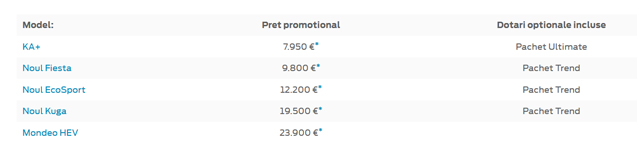
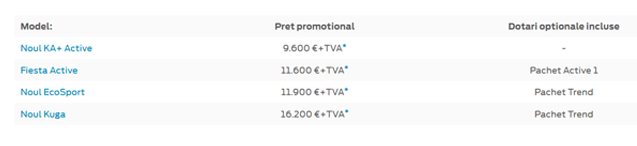
update

diff --git a/application/views/home.php b/application/views/home.php
@@ -4,7 +4,57 @@
 <div id="hpCarousel" role="listbox">
 <!--Rendering the Image Panel-->
 
+    <article role="option">
+        <a class="carImg" href="#img1"><img src="/assets/img/rabla19.jpg"
+                                            alt="&lt;span style=&quot;font-size:28px;&quot;&gt;&lt;span style=&quot;font-family:FordAntennaRegular;&quot;&gt; &lt;/span&gt;&lt;span style=&quot;font-family:FordAntennaBlack;&quot;&gt; &lt;/span&gt;&lt;/span&gt;"
+                                            role="presentation"></a>
 
+        <div class="innerBox posBottomLeft WhiteText">
+            <div class="">
+                <h2 class="bigHeading02">
+                 <span style="font-size:28px;"><span style="font-family:FordAntennaRegular;"> </span><span
+                         style="font-family:FordAntennaBlack;"> </span></span>
+                </h2>
+
+                <p class="captionTxt">
+                    <span style="font-size:18px;"><span style="font-family:FordAntennaRegular;"> </span></span>
+                </p>
+
+                <div class="btnwrapper">
+                    <div class="btnLink light">
+                        <a role="button" class="om_ca_in" href="/Promotii/Autoturisme">Afl&#259; mai
+                            multe</a>
+                    </div>
+                </div>
+            </div>
+        </div>
+    </article>
+
+    <article role="option">
+        <a class="carImg" href="#img1"><img src="/assets/img/business_weeks.jpg"
+                                            alt="&lt;span style=&quot;font-size:28px;&quot;&gt;&lt;span style=&quot;font-family:FordAntennaRegular;&quot;&gt; &lt;/span&gt;&lt;span style=&quot;font-family:FordAntennaBlack;&quot;&gt; &lt;/span&gt;&lt;/span&gt;"
+                                            role="presentation"></a>
+
+        <div class="innerBox posMiddleLeft WhiteText">
+            <div class="">
+                <h2 class="bigHeading02">
+                 <span style="font-size:28px;"><span style="font-family:FordAntennaRegular;"> </span><span
+                         style="font-family:FordAntennaBlack;"> </span></span>
+                </h2>
+
+                <p class="captionTxt">
+                    <span style="font-size:18px;"><span style="font-family:FordAntennaRegular;"> </span></span>
+                </p>
+
+                <div class="btnwrapper">
+                    <div class="btnLink light">
+                        <a role="button" class="om_ca_in" href="/Promotii/comerciale">Afl&#259; mai
+                            multe</a>
+                    </div>
+                </div>
+            </div>
+        </div>
+    </article>
 
 <article role="option">
     <a class="carImg" href="#img1"><img
@@ -33,55 +83,8 @@
     </div>
 </article>
 
-<article role="option">
-    <a class="carImg" href="#img1"><img
-            src="/assets/img/rabla18.jpg"
-            alt="&lt;span style=&quot;font-size:28px;&quot;&gt;&lt;span style=&quot;font-family:FordAntennaRegular;&quot;&gt;Este timpul sa decizi&lt;/span&gt;&lt;span style=&quot;font-family:FordAntennaBlack;&quot;&gt;&lt;/span&gt;&lt;/span&gt;"
-            role="presentation"></a>
 
-    <div class="innerBox posTopRight WhiteText">
-        <div class="">
-            <h2 class="bigHeading">
-                <span style="font-size:20px;"><span style="font-family:FordAntennaRegular;">Inlocuieste masina veche cu modelul Ford preferat</span><span
-                        style="font-family:FordAntennaBlack;"></span></span>
-            </h2>
 
-                     <div class="btnwrapper">
-                <div class="btnLink light">
-                    <a role="button" class="om_ca_in" href="/Promotii/Autoturisme">Afla mai multe</a>
-                </div>
-            </div>
-        </div>
-    </div>
-</article>
-
-<article role="option">
-    <a class="carImg" href="#img1"><img
-            src="/assets/img/1214657795888.jpg"
-            alt="&lt;span style=&quot;font-size:28px;&quot;&gt;&lt;span style=&quot;font-family:FordAntennaRegular;&quot;&gt;&lt;/span&gt;&lt;span style=&quot;font-family:FordAntennaBlack;&quot;&gt;&lt;/span&gt;&lt;/span&gt;"
-            role="presentation"></a>
-
-    <div class="innerBox posBottomRight WhiteText">
-        <div class="">
-            <h2 class="bigHeading02">
-                <span style="font-size:28px;"><span style="font-family:FordAntennaRegular;"></span><span
-                        style="font-family:FordAntennaBlack;"></span></span>
-            </h2>
-
-            <p class="captionTxt">
-                <span style="font-size:22px;"><span style="font-family:FordAntennaRegular;"></span><span
-                        style="font-family:FordAntennaBlack;"></span></span>
-            </p>
-
-            <div class="btnwrapper">
-                <div class="btnLink light">
-                    <a role="button" class="om_ca_in" href="/Promotii/Autoturisme/OfertaFiestaActive">VEZI OFERTA
-                        SPECIALA</a>
-                </div>
-            </div>
-        </div>
-    </div>
-</article>
 
 
 <article role="option">
@@ -111,32 +114,38 @@
     </div>
 </article>
 
+<article role="option">
+    <a class="carImg" href="#img1"><img src="/assets/img/shoe_iarna.jpg"
+                                        alt="&lt;span style=&quot;font-size:28px;&quot;&gt;&lt;span style=&quot;font-family:FordAntennaRegular;&quot;&gt; &lt;/span&gt;&lt;span style=&quot;font-family:FordAntennaBlack;&quot;&gt; &lt;/span&gt;&lt;/span&gt;"
+                                        role="presentation"></a>
+
+    <div class="innerBox posTopRight WhiteText">
+        <div class="">
+            <h2 class="bigHeading02">
+                 <span style="font-size:28px;"><span style="font-family:FordAntennaRegular;"> </span><span
+                         style="font-family:FordAntennaBlack;"> </span></span>
+            </h2>
+
+            <p class="captionTxt">
+                <span style="font-size:18px;"><span style="font-family:FordAntennaRegular;"> </span></span>
+            </p>
+
+            <div class="btnwrapper">
+                <div class="btnLink light">
+                    <a role="button" class="om_ca_in" href="https://www.ford.ro/service/service-si-intretinere/motorcraft/roti-iarna">Afl&#259; mai
+                        multe</a>
+                </div>
+            </div>
+        </div>
+    </div>
+</article>
+
 <!--Image Panel End-->
 <!--Rendering the Image Panel-->
 
 <!--Image Panel End-->
 <!--Rendering the Video Panel-->
-<!--   <article role="option">
-       <a class="carImg" href="#img1">
-           <img src="/assets/img/summer.jpg" alt="" role="presentation"></a>
 
-       <div class="innerBox posBottomLeft SlateText">
-           <div class="">
-               <h2 class="bigHeading02">
-               </h2>
-
-               <p class="captionTxt">
-               </p>
-
-               <div class="btnwrapper">
-                   <div class="btnLink light">
-                       <a role="button" class="om_ca_in"
-                          href="/Promotii/Autoturisme/KugaSummerEdition">AFLA MAI MULTE</a>
-                   </div>
-               </div>
-           </div>
-       </div>
-   </article> -->
 <!--Video Panel Rendering Ends-->
 <!--Rendering the Video Panel-->
 <!--    <article class="videoObj">
@@ -169,31 +178,7 @@
     </article> -->
 <!--Video Panel Rendering Ends-->
 <!--Rendering the Image Panel-->
-<!-- <article role="option">
-     <a class="carImg" href="#img1"><img src="/assets/img/1214561275079.jpg"
-                                         alt="&lt;span style=&quot;font-size:28px;&quot;&gt;&lt;span style=&quot;font-family:FordAntennaRegular;&quot;&gt; &lt;/span&gt;&lt;span style=&quot;font-family:FordAntennaBlack;&quot;&gt; &lt;/span&gt;&lt;/span&gt;"
-                                         role="presentation"></a>
 
-     <div class="innerBox posBottomLeft WhiteText">
-         <div class="">
-             <h2 class="bigHeading02">
-                 <span style="font-size:28px;"><span style="font-family:FordAntennaRegular;"> </span><span
-                         style="font-family:FordAntennaBlack;"> </span></span>
-             </h2>
-
-             <p class="captionTxt">
-                 <span style="font-size:18px;"><span style="font-family:FordAntennaRegular;"> </span></span>
-             </p>
-
-             <div class="btnwrapper">
-                 <div class="btnLink light">
-                     <a role="button" class="om_ca_in" href="/Promotii/comerciale/NoulRanger">Afl&#259; mai
-                         multe</a>
-                 </div>
-             </div>
-         </div>
-     </div>
- </article> -->
 <!--Image Panel End-->
 <!--Rendering the Image Panel-->
 

diff --git a/application/views/promotii/comerciale.php b/application/views/promotii/comerciale.php
@@ -26,32 +26,31 @@
         <section class="mid-page-content">
             <div class="tab-content">
 
-         <!--       <article class="content-column centered">
+         <article class="content-column centered">
                     <div class="img-column">
                             <img
-                                src="/assets/img/ecobonus/1214657252419.jpg"
+                                src="/assets/img/1214657252419.jpg"
                                 alt="Ford Business Weeks vehiculul comercial"/><span class="fv-overlay-icon"></span></a>
                     </div>
                     <div class="content">
                         <h3 class="bigHeading02">
-                            SOLUTII NEASTEPTATE PENTRU AFACEREA TA!
+                            BENEFICII DE EXCEPTIE PENTRU AFACEREA TA
                         </h3>
-
+<br>
                         <p>
 
-                        <p>Sa ai propria afacere implica zilnic provocari neasteptate. Tocmai de aceea ai nevoie si de
-                            solutii neasteptate.<br>
-                            &nbsp; <br>
-                            Te asteptam la Ford Business Weeks sa-ti alegi vehiculul comercial Ford de care ai nevoie.
-                            Fie ca urci la volanul unui Transit Courier Van, Transit Conect Van, Transit Van, Ranger
-                            XLT, Transit Custom Kombi sau Transit Custom Van, te vei bucura de costuri optimizate si
-                            beneficii de exceptie: dobanda 0% si garantie extinsa.<br>
-                            &nbsp; <br>
-                            <span style="color: rgb(0, 0, 255);"><u><a HREF="/Promotii/comerciale/BusinessWeeks">Vezi
-                                        detaliile promotiei</a></u></span></p>
+
+                        <p style="text-align: center;">Sa ai propria afacere implica zilnic provocari neasteptate. Tocmai de aceea ai nevoie si de solutii neasteptate.</p>
+
+                        <p style="text-align: center;">Te asteptam la Ford Business Weeks sa-ti alegi vehiculul comercial Ford de care ai nevoie. Descopera <br> noua gama Ford Transit Custom – de la agilul Courier la competentul Custom Van; Vei gasi aici si consacratul model <br>comercial Transit Van, versiunile Tourneo Custom pentru transport de persoane si,<br> desigur, Ford Ranger, pentru care niciun tip de teren nu constituie o piedica.</p>
+
+                        <p style="text-align: center;">Indiferent de modelul potrivit pentru afacerea ta, te vei bucura de <br>costuri optimizate si beneficii de exceptie: <strong>dobanda 0%</strong> si preturi speciale:</p>
+                        <img
+                            src="/assets/img/pretu_com.jpg"
+                            alt="Business Weeks "/><span class="fv-overlay-icon">
                         </p>
                     </div>
-                </article> -->
+                </article>
 
                 <!--       <article class="content-column centered">
                            <div class="content centered">

diff --git a/application/views/promotii/autoturisme.php b/application/views/promotii/autoturisme.php
@@ -73,20 +73,26 @@
     <div class="content"><br>
 
         <h3 class="bigHeading02">
-            OFERTA SPECIALA PRIN PROGRAMUL RABLA
+            PROMOTIE FORD CROSSOVER & SUV
         </h3>
-
+        <br>
         <p>
 
-        <p>Acum este mai simplu ca oricand sa iti schimbi masina veche cu modelul Ford preferat!
+        <p>Fiecare dintre noi se concentreaza pe diferite perspective: unii asupra traficului urban, altii asupra unor trasee neasfaltate; <br>
+            unii au nevoie de noi perspective pentru vacante pline de aventura, in timp ce altii vor sa fie priviti in mod diferit de<br>  catre partenerii de afaceri.
 
-            De la modelul KA+,<br> mic si functional, pana la Kuga, SUV-ul inteligent, ai preturi speciale si dotari
-            importante incluse in pret:.<br> <br>
+            Indiferent de felul in care folosesti si in care iti privesti masina, gama crossover si SUV Ford include,<br>  cu siguranta, modelul care iti ofera exact perspectiva
+            de care ai nevoie. Iar asta inseamna mult mai mult decat pozitia la volan: <br>inseamna incredere pe drumuri putin umblate, tehnologii avansate pentru confort si siguranta,
+            flexibilitate in viata sau in<br> afacerile de zi-cu-zi.
+
+            De la noul Ka+ Active si Fiesta Active, agile si functionale, pana la Ecosport si Kuga, SUV-ul inteligent,<br> ai preturi speciale si dotari importante incluse in pret.
+
+            Oferta este valabila atat pentru persoane fizice, cat si pentru persoane juridice:.<br> <br>
             <img
                 src="/assets/img/rabla18_2.jpg"
                 alt="Ford Fiesta Active "/><span class="fv-overlay-icon">
 <br> <br>
-            <a HREF="https://tehnologieauto.ro/FordRabla2018"><u>Detalii despre promotie</u></a></p>
+           </p>
         </p>
     </div>
 </article>
